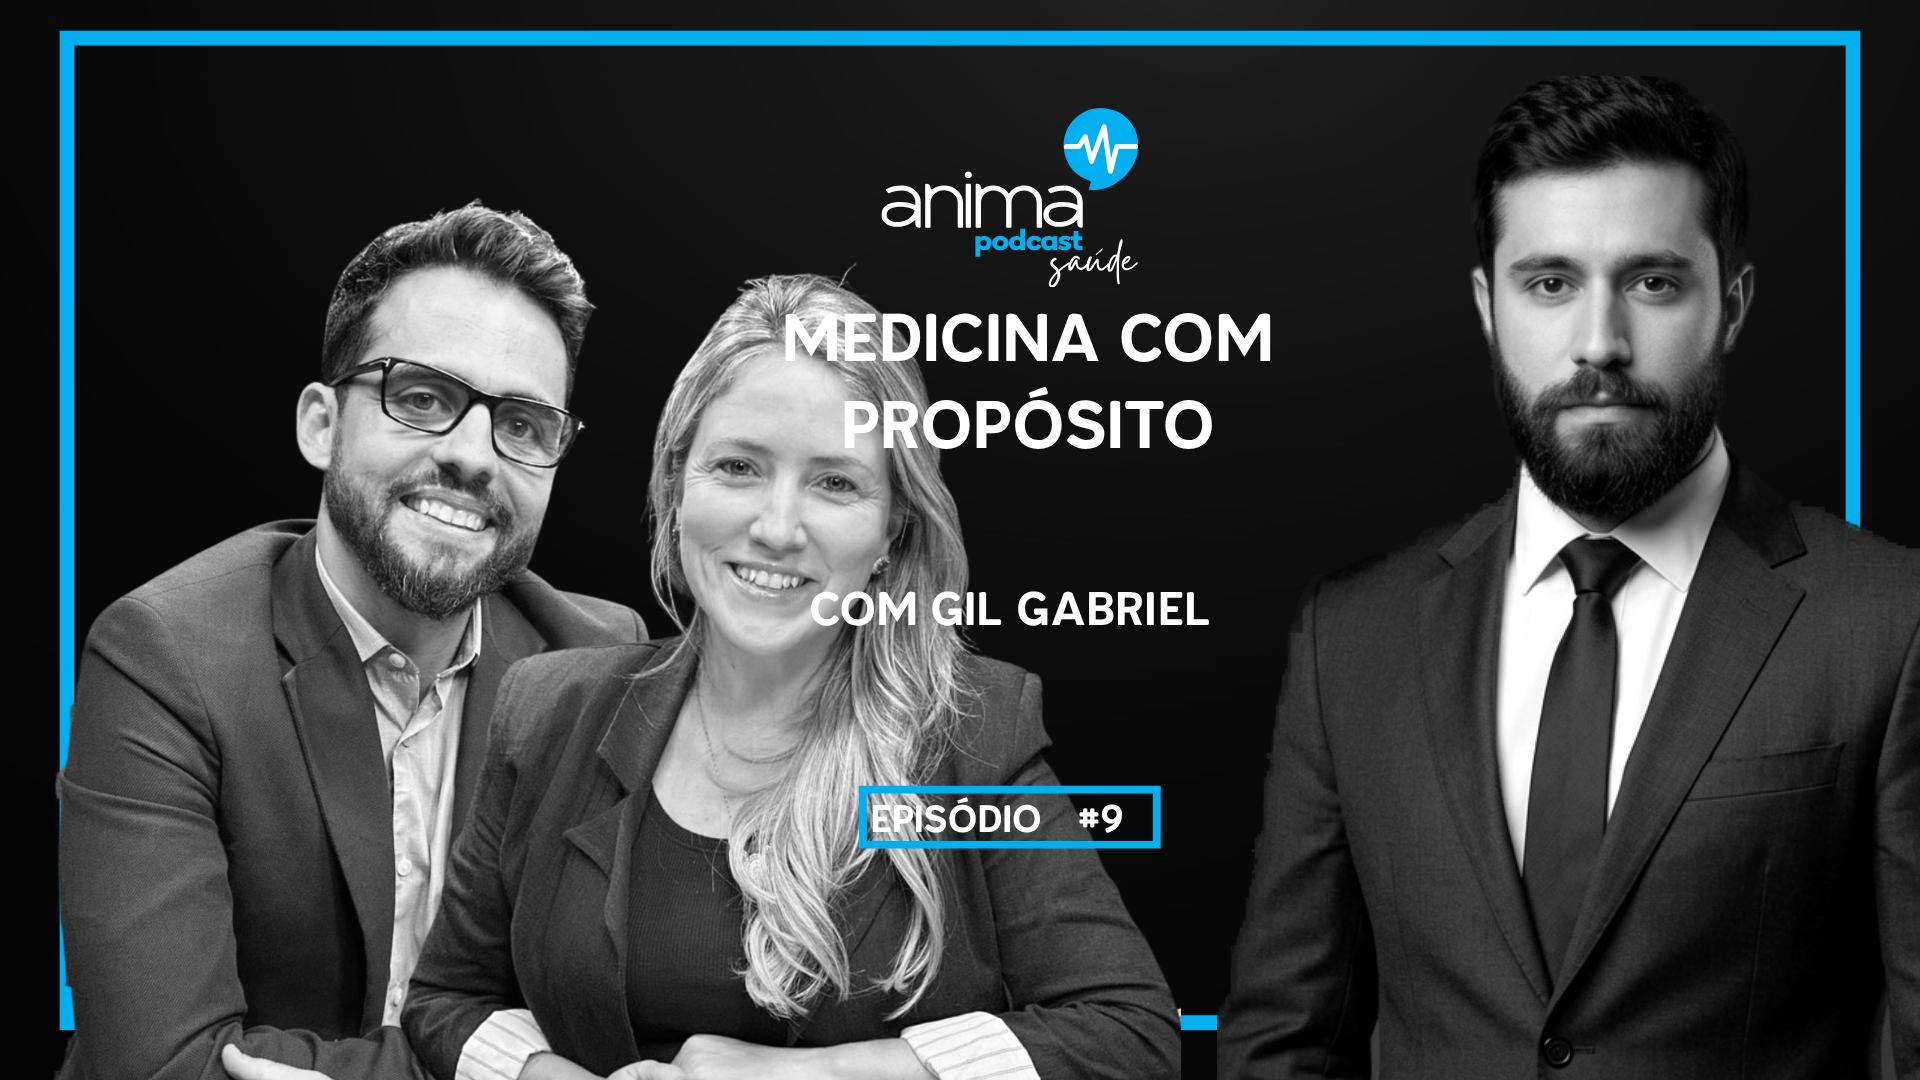
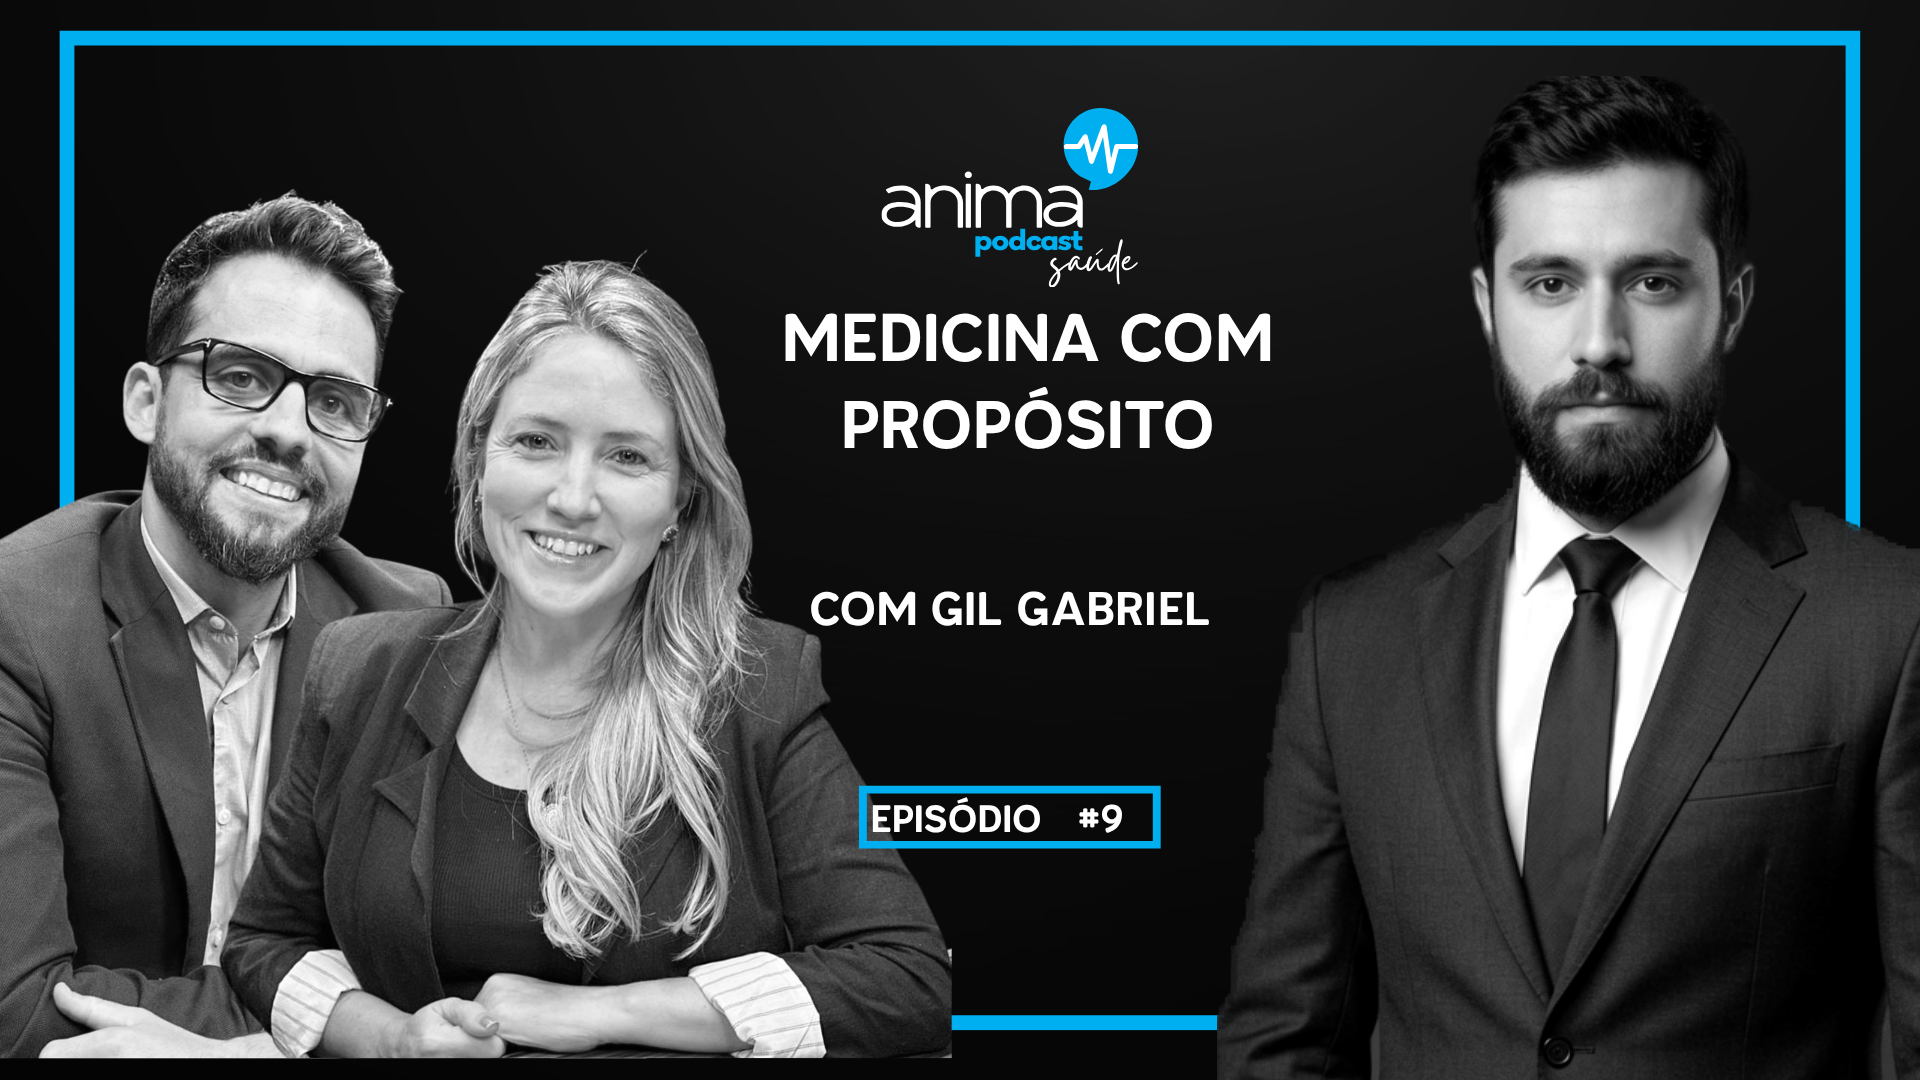
Saude: casal enquadrado conforme modelo (homem levemente cortado, mulher inteira)

diff --git a/review/saude/index.html b/review/saude/index.html
@@ -14,9 +14,9 @@ figcaption b{color:var(--acc)}figcaption span{color:var(--muted);font-size:12px}
 <header><h1>Anima <span>Saúde</span> — casal de apresentadores (5 para aprovação)</h1>
 <p>Novo casal do Anima Saúde inserido à esquerda (na frente da borda azul, atrás do texto), no mesmo padrão dos demais. Cópia de trabalho DAHT5dd2JhQ; o design original DAHRWqXOUCY foi preservado. Se aprovar, aplico aos 32 episódios do Saúde.</p></header>
 <main>
-<figure><img src="e5.png?v=3" alt="#5"><figcaption><b>#5</b><br><span>Cólicas e refluxos do bebê — com José Eduardo</span></figcaption></figure>
-<figure><img src="e7.png?v=3" alt="#7"><figcaption><b>#7</b><br><span>Sinais de alerta do autismo — com Angélica Ávila</span></figcaption></figure>
-<figure><img src="e8.png?v=3" alt="#8"><figcaption><b>#8</b><br><span>Por que estamos tão ansiosos? — com Bruno Lamoglia</span></figcaption></figure>
-<figure><img src="e9.png?v=3" alt="#9"><figcaption><b>#9</b><br><span>Medicina com propósito — com Gil Gabriel</span></figcaption></figure>
-<figure><img src="e10.png?v=3" alt="#10"><figcaption><b>#10</b><br><span>Como aliviar dores crônicas — com Leonardo Avila</span></figcaption></figure>
+<figure><img src="e5.png?v=4" alt="#5"><figcaption><b>#5</b><br><span>Cólicas e refluxos do bebê — com José Eduardo</span></figcaption></figure>
+<figure><img src="e7.png?v=4" alt="#7"><figcaption><b>#7</b><br><span>Sinais de alerta do autismo — com Angélica Ávila</span></figcaption></figure>
+<figure><img src="e8.png?v=4" alt="#8"><figcaption><b>#8</b><br><span>Por que estamos tão ansiosos? — com Bruno Lamoglia</span></figcaption></figure>
+<figure><img src="e9.png?v=4" alt="#9"><figcaption><b>#9</b><br><span>Medicina com propósito — com Gil Gabriel</span></figcaption></figure>
+<figure><img src="e10.png?v=4" alt="#10"><figcaption><b>#10</b><br><span>Como aliviar dores crônicas — com Leonardo Avila</span></figcaption></figure>
 </main>
